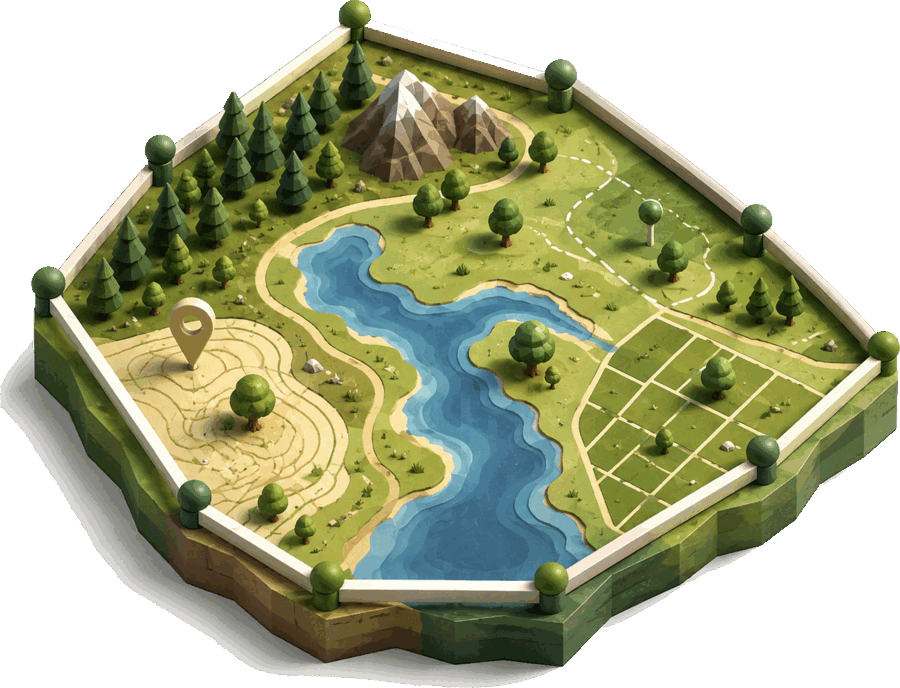
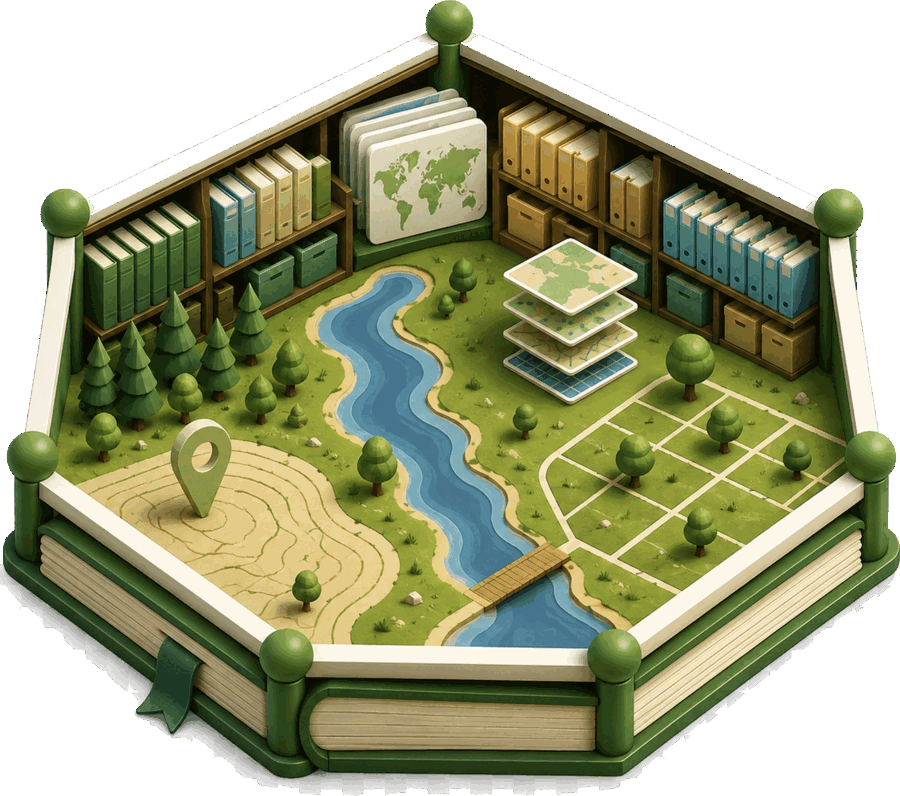
New hero artwork; keep 'of' in ink
The artwork is the same pentagon geometry as the logo, with bookshelves inside
the terrain — so the mark in the header and the illustration beside it read as
one family, and the picture says what the headline says.

Source was RGB with a white background despite appearing to have a checkerboard
alpha, so it needed the same corner flood-fill as the last one: a global
-transparent white would have holed the cream fence rails, book pages and map
cards. 65/65 sampled interior pixels survived and 268 soft-alpha pixels keep
the drop shadow smooth.

Only 'geographic files' carries the accent now; 'of' is ink.

diff --git a/pages/index.vue b/pages/index.vue
@@ -5,7 +5,7 @@
     <main class="wrap">
       <section class="hero">
         <div class="hero-copy">
-          <h1>The open library<br /><em>of geographic files</em></h1>
+          <h1>The open library<br />of <em>geographic files</em></h1>
 
           <ul class="facts mono">
             <li v-if="stats?.sources">
@@ -21,7 +21,7 @@
              from screen readers rather than described. -->
         <picture class="hero-art" aria-hidden="true">
           <source srcset="/img/geopen-hero.webp" type="image/webp" />
-          <img src="/img/geopen-hero.png" alt="" width="900" height="691"
+          <img src="/img/geopen-hero.png" alt="" width="900" height="796"
                decoding="async" fetchpriority="low" />
         </picture>
 
@@ -221,6 +221,8 @@ useHead({
 .hero-copy { grid-area: copy; display: grid; gap: 20px; }
 .hero .search { grid-area: search; }
 .hero .egs { grid-area: egs; }
+/* Cut-out artwork on a transparent background — it sits on the page ground
+   rather than in a frame. */
 .hero-art { grid-area: art; align-self: center; }
 .hero-art img { display: block; width: 100%; height: auto; }
 @media (prefers-color-scheme: dark) { .hero-art img { filter: brightness(.88) saturate(.95); } }
